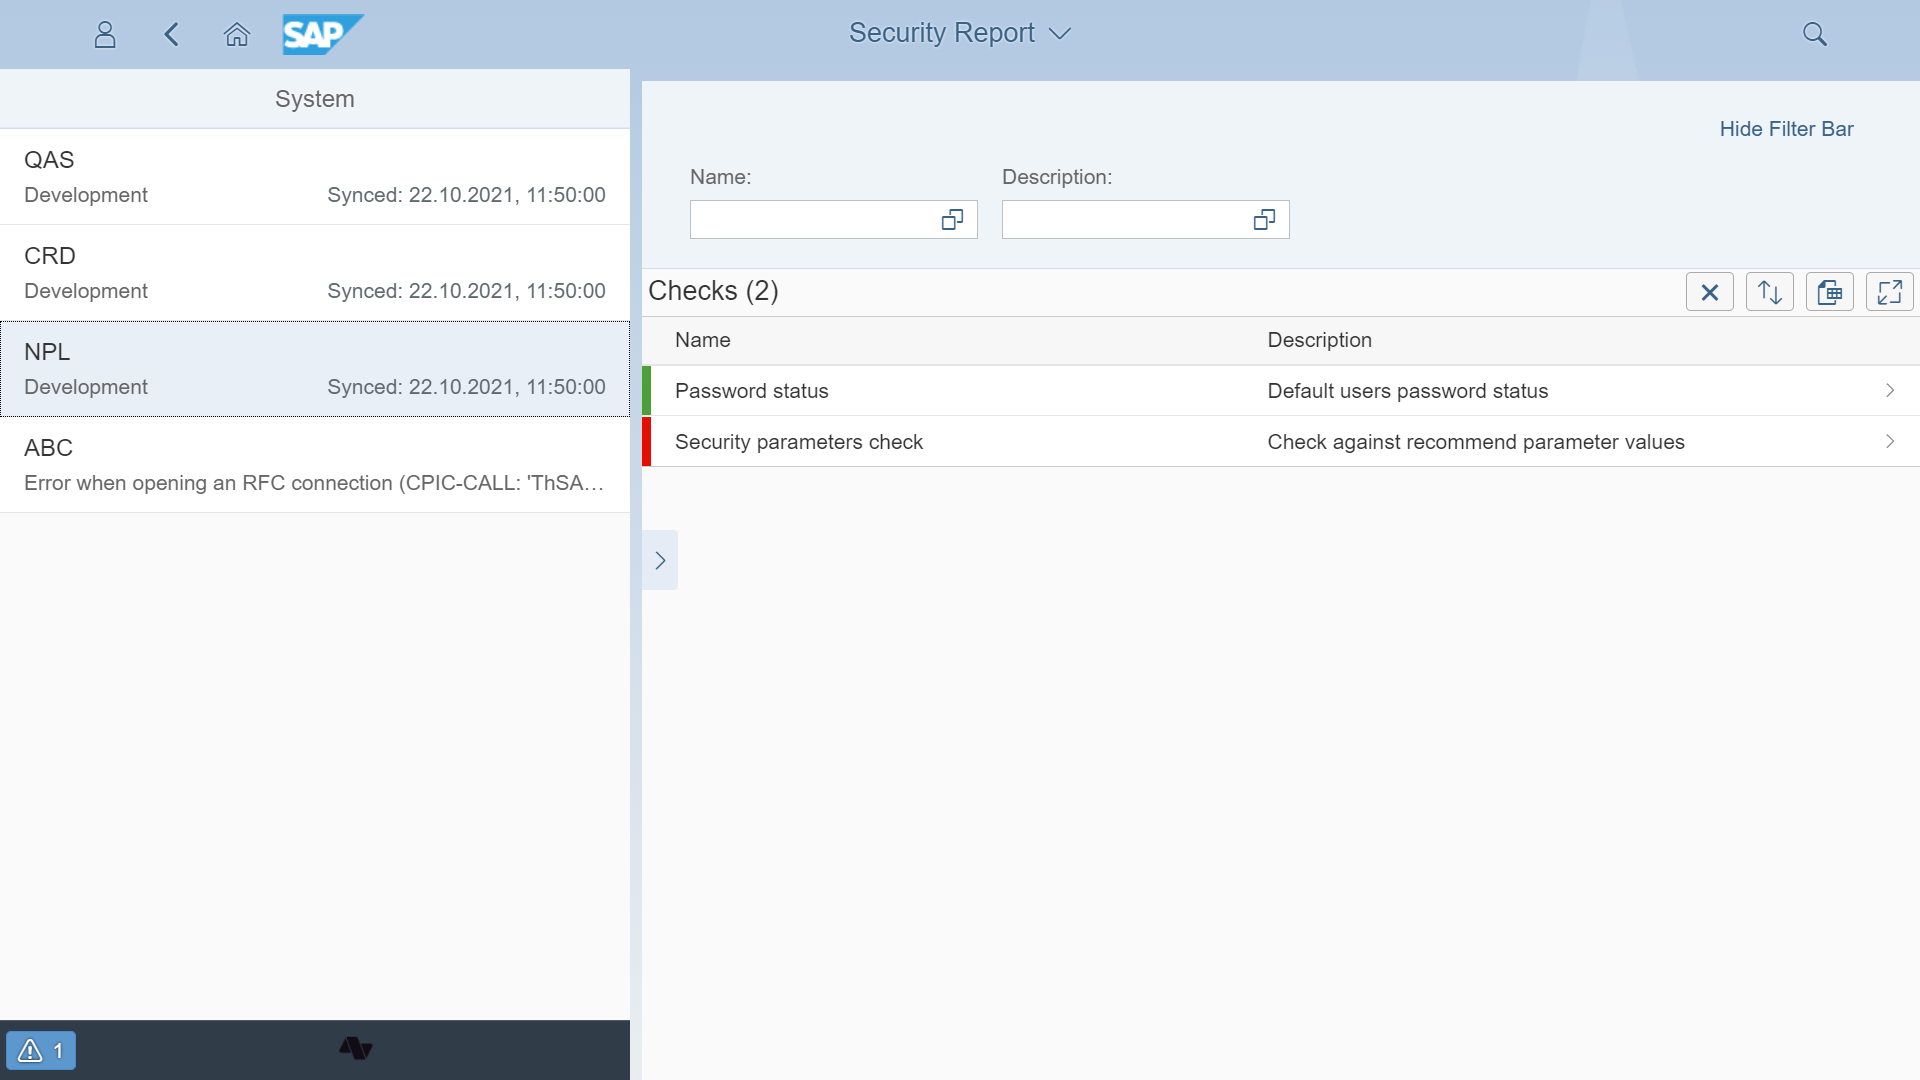
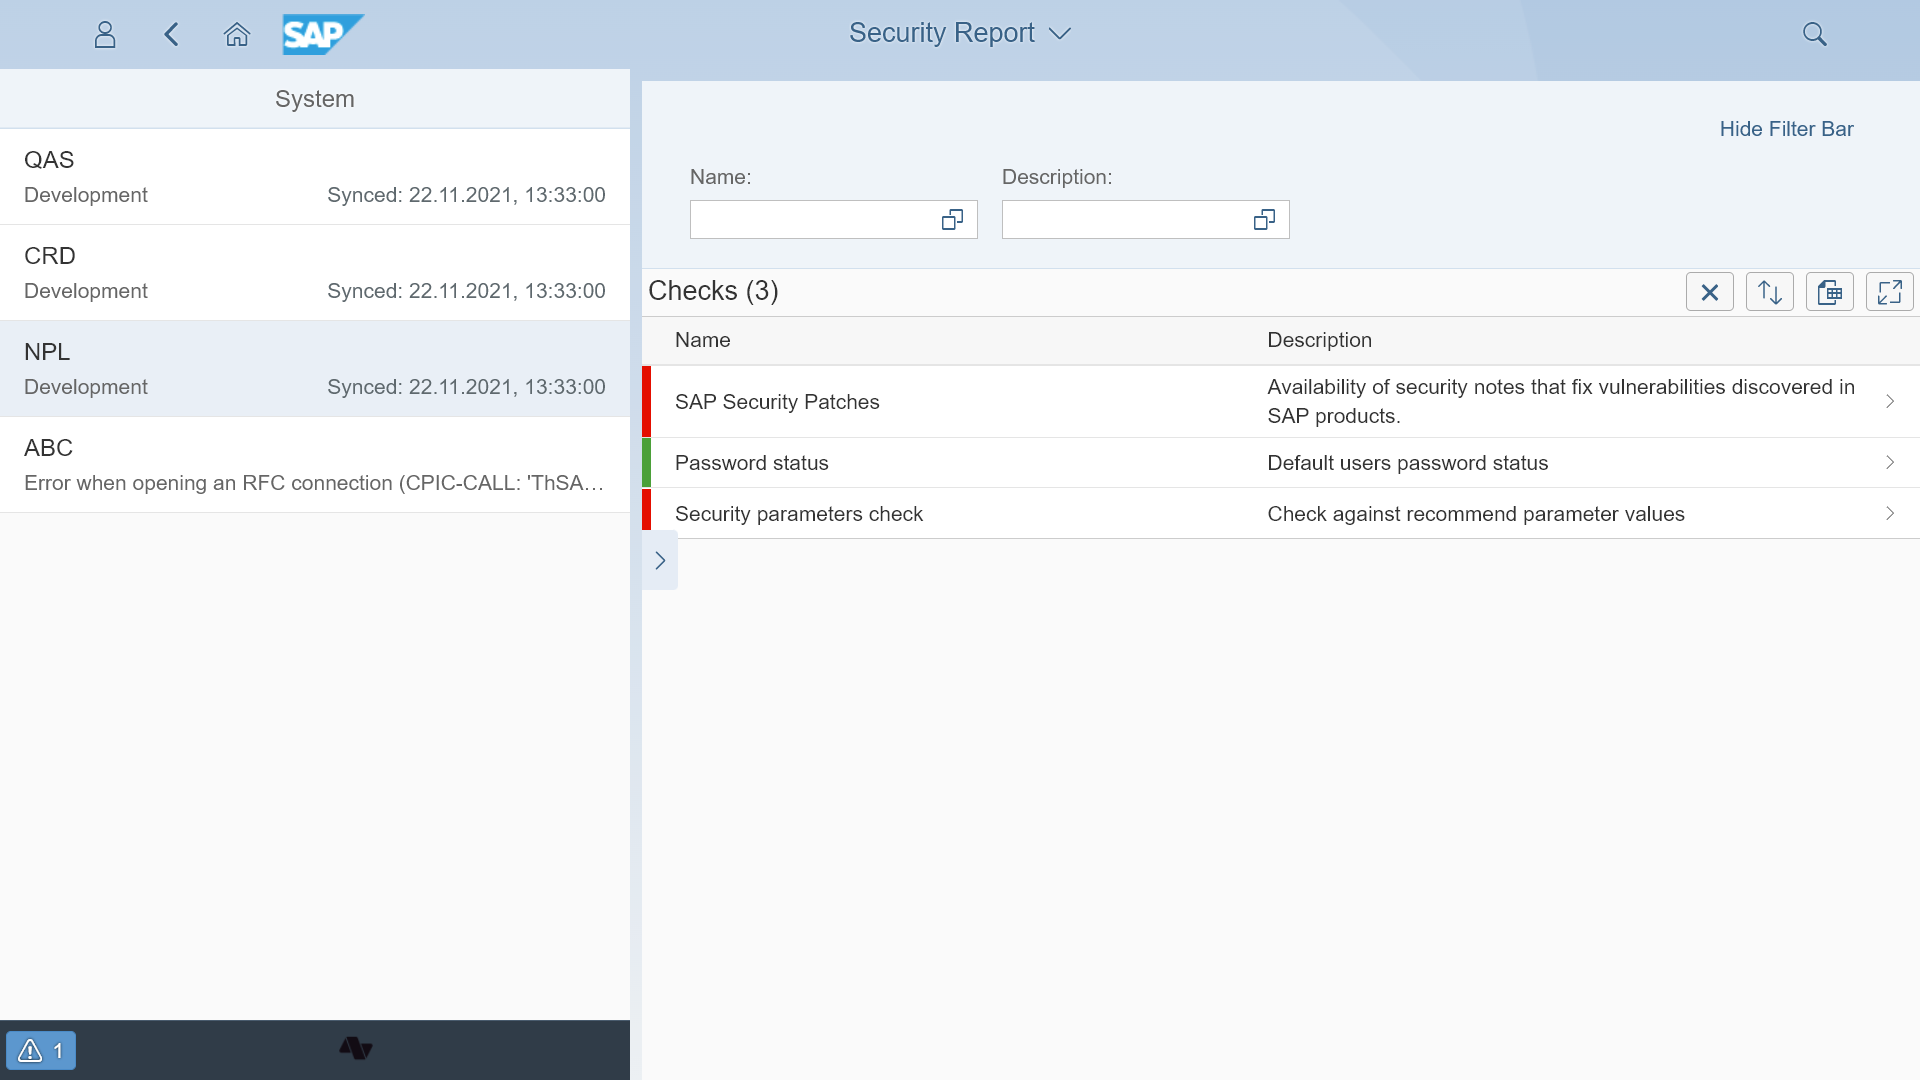
upd

diff --git a/docs/2020/FPS01/inst.md b/docs/2020/FPS01/inst.md
@@ -3,7 +3,7 @@
 ## Generals steps for Basis expert:
 
 1. [Obtain and import the transport files for release `2020FPS01`](../inst/step-1.md)
-2. [Activate Frontend ICF nodes](../inst/step-2.md) for node `ZGVSR`
+2. [Activate Frontend ICF node](../inst/step-2.md) `ZGVSR`
 3. [Assign pfcg roles](../inst/step-4.md) for role `ZNYPE_GV`
 4. [Enter the activation key](../inst/step-5.md)
 ## "As-is" API installation steps for Basis expert

diff --git a/docs/2020/FPS01/sec-checks.md b/docs/2020/FPS01/sec-checks.md
@@ -7,3 +7,4 @@ The Gover comes with a set of security checks. The Gover development team develo
 |---------------|-------------------------------------|
 | gv0001        | [Password status](gv0001.md)        |
 | gv0004        | [Security parameters](gv0004.md)    |
+| gv0010        | [Security patches](gv0010.md)    |

diff --git a/docs/2020/FPS01/gv0010.md b/docs/2020/FPS01/gv0010.md
@@ -1,0 +1,4 @@
+# Security patches
+
+[![](res/gv0010.png)](res/gv0010.png)
+
